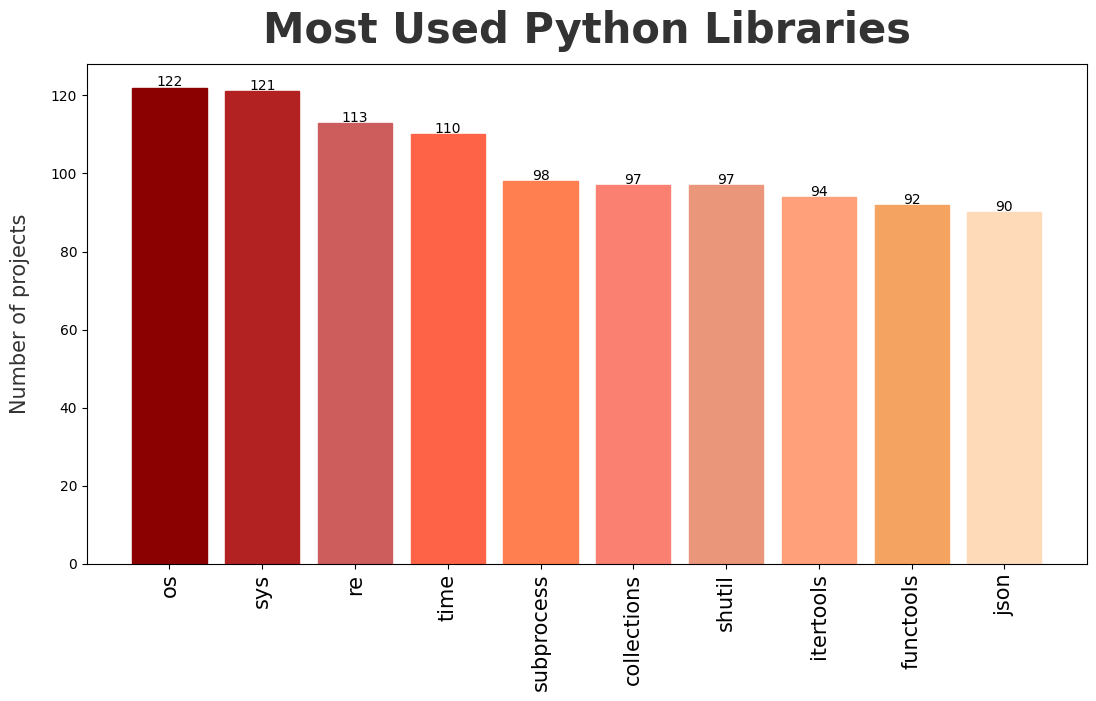
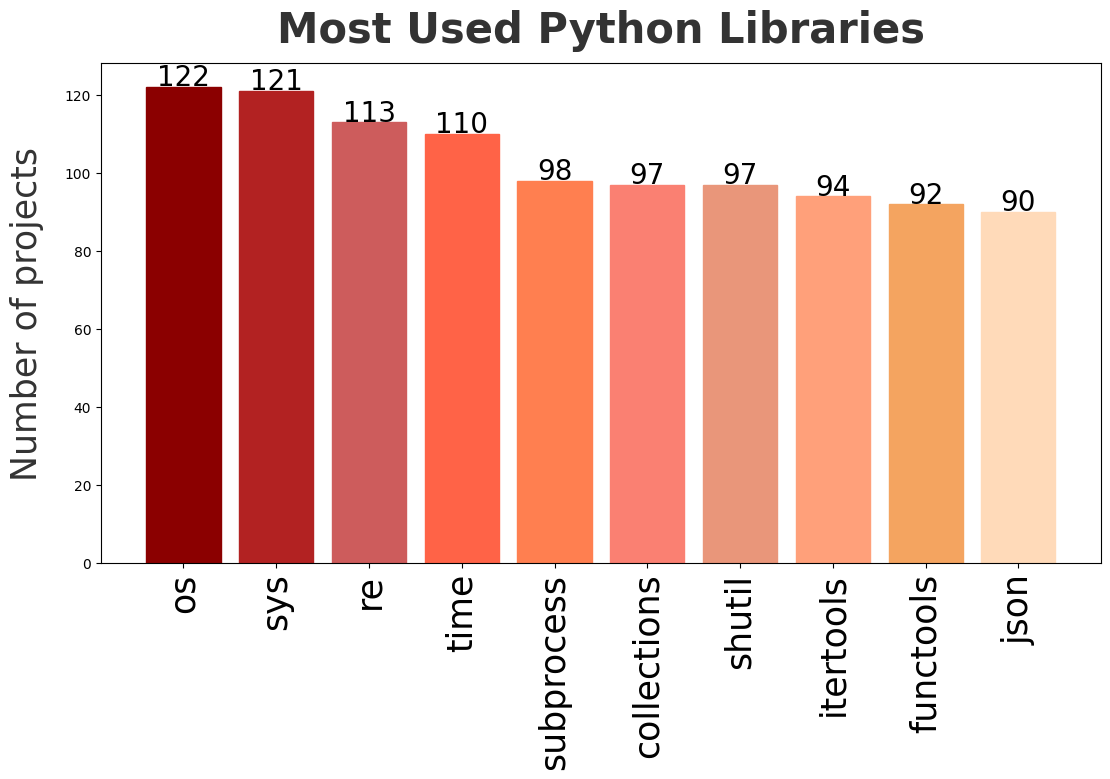
fixing fontsize

diff --git a/app/plot_top10.py b/app/plot_top10.py
@@ -26,6 +26,7 @@ def plotTop10(modules,file_name,type):
         bar.get_height() + 0.3,
         round(bar.get_height(), 1),
         horizontalalignment='center',
+        size=20,
         color='black'
     )
 
@@ -41,9 +42,9 @@ def plotTop10(modules,file_name,type):
   bars[9].set_color('peachpuff')
 
   x_pos = np.arange(len(libs))
-  plt.xticks(x_pos, libs, rotation=90,fontsize=15)
+  plt.xticks(x_pos, libs, rotation=90,fontsize=25)
   ax.set_ylabel('Number of projects', labelpad=15,
-                color='#333333',fontsize=15)
+                color='#333333',fontsize=25)
   if type == "Std":
     ax.set_title('Most Used Python Libraries', pad=15, color='#333333',
                 weight='bold', fontsize=30)
